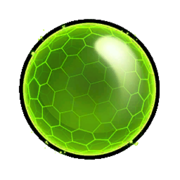
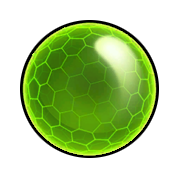
gestion image bouclier

Changed region(s): [[0.0833, 0.25, 0.8889, 0.8889], [0.1944, 0.0833, 0.8333, 0.3056], [0.8333, 0.3056, 0.8611, 0.3611]]

diff --git a/src/services/ServiceControleurPartie.ts b/src/services/ServiceControleurPartie.ts
@@ -21,7 +21,7 @@ export class ServiceControleurPartie {
     private serviceEnnemis: ServiceEnnemis;
     private serviceForme: ServiceFormes;
     private servicePVs: ServicePVs;
-    private serviceBonuss: ServiceBonus;        
+    private serviceBonus: ServiceBonus;        
     private serviceScore: ServiceScore;
     private serviceNiveau: ServiceNiveau;
     
@@ -46,7 +46,7 @@ export class ServiceControleurPartie {
         this.serviceEnnemis = new ServiceEnnemis(this.p5);
         this.serviceForme = new ServiceFormes(this.p5);
         this.servicePVs = new ServicePVs(this.p5, 2, this.largeur_images_hud, this.hauteur_images_hud);
-        this.serviceBonuss = new ServiceBonus(this.p5, 3, this.largeur_images_hud, this.hauteur_images_hud);
+        this.serviceBonus = new ServiceBonus(this.p5, 3, this.largeur_images_hud, this.hauteur_images_hud);
         this.serviceScore = new ServiceScore(this.p5, this.score);
 
         this.serviceNiveau.instancierNumeroNiveau(numeroNiveau);
@@ -119,11 +119,11 @@ export class ServiceControleurPartie {
     public setServicePVs(value: ServicePVs) {
         this.servicePVs = value;
     }
-    public getServiceBombes(): ServiceBonus {
-        return this.serviceBonuss;
+    public getServiceBonus(): ServiceBonus {
+        return this.serviceBonus;
     }
-    public setServiceBombes(value: ServiceBonus) {
-        this.serviceBonuss = value;
+    public setServiceBonus(value: ServiceBonus) {
+        this.serviceBonus = value;
     }
     public getServiceScore(): ServiceScore {
         return this.serviceScore;

diff --git a/src/services/serviceVaisseau.ts b/src/services/serviceVaisseau.ts
@@ -15,7 +15,6 @@ export class ServiceVaisseau {
     private timerInvincibilite: any;
     
     private couleurVaisseau;
-    private couleurVaisseauInvincible;
 
     private vaisseau: Vaisseau;    
   
@@ -28,7 +27,6 @@ export class ServiceVaisseau {
         this.p5 = p5;
         this.vaisseau = new Vaisseau(pos_x, pos_y);
         this.couleurVaisseau = this.p5.color(255, 255, 255);
-        this.couleurVaisseauInvincible = this.p5.color(23,150,24);
     }
 
     drawFormeBoucle() {    
@@ -49,13 +47,14 @@ export class ServiceVaisseau {
       this.drawLines();
       
       this.p5.noStroke();
-
-      const couleurVaisseauActuelle = this.vaisseau.isInvincible() ? this.couleurVaisseauInvincible : this.couleurVaisseau;
       
-      this.p5.fill(couleurVaisseauActuelle);
+      this.p5.fill(this.couleurVaisseau);
       
       if (this.vaisseau.getPointeurCercle()) {
         this.p5.circle(this.vaisseau.getPointeurCercle().getPosX(), this.vaisseau.getPointeurCercle().getPosY(), this.vaisseau.getPointeurCercle().getRayon());
+        if (this.vaisseau.isInvincible()) {
+          this.p5.serviceControleurPartie.getServiceBonus().drawBouclier(this.vaisseau);
+        }
       }
     }
 

diff --git a/src/services/ServiceBonus.ts b/src/services/ServiceBonus.ts
@@ -1,3 +1,4 @@
+import { Vaisseau } from "../class/Vaisseau";
 
 export class ServiceBonus {
 
@@ -15,10 +16,21 @@ export class ServiceBonus {
         this.largeur_img = largeur_img;
     }
 
-    drawBombes() {
+    drawBonus() {
         for (let i =0; i < this.nbBonus; i++ ) {
             this.p5.image(this.img, (i) * this.largeur_img, window.innerHeight - this.hauteur_img, this.largeur_img, this.hauteur_img);
         }
+    }
+
+    drawBouclier(vaisseau: Vaisseau) {
+        this.p5.tint(255, 127);
+        this.p5.image(
+            this.img,
+            vaisseau.getPointeurCercle().getPosX() - vaisseau.getRayonCercle(),
+            vaisseau.getPointeurCercle().getPosY() - vaisseau.getRayonCercle(),
+            vaisseau.getRayonCercle() * 2,
+            vaisseau.getRayonCercle() * 2 
+        );
     }
 
     public getNbBonus(): number {

diff --git a/src/boogaloopers.ts b/src/boogaloopers.ts
@@ -38,7 +38,7 @@ export const boogaloopers = (p: any) => {
     p.serviceControleurPartie.getServiceScore().drawScorePartie();
     p.serviceControleurPartie.getServiceScore().drawScores();
     p.serviceControleurPartie.getServicePVs().drawPVs();
-    p.serviceControleurPartie.getServiceBombes().drawBombes();
+    p.serviceControleurPartie.getServiceBonus().drawBonus();
     p.serviceControleurPartie.getServiceEnnemis().drawEnnemis();
     p.serviceControleurPartie.getServiceVaisseau().drawVaisseau();
   }
